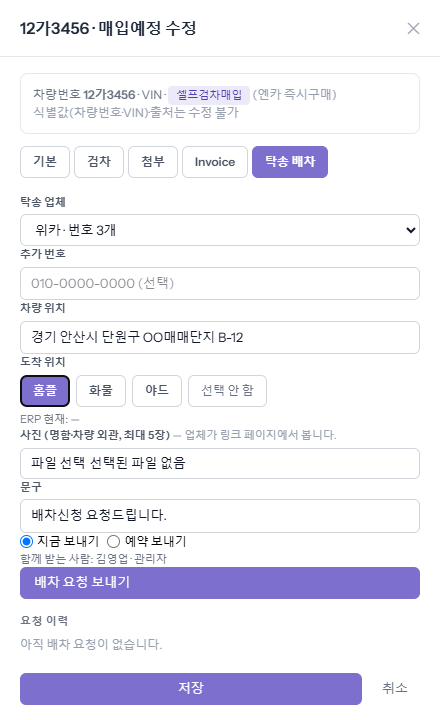
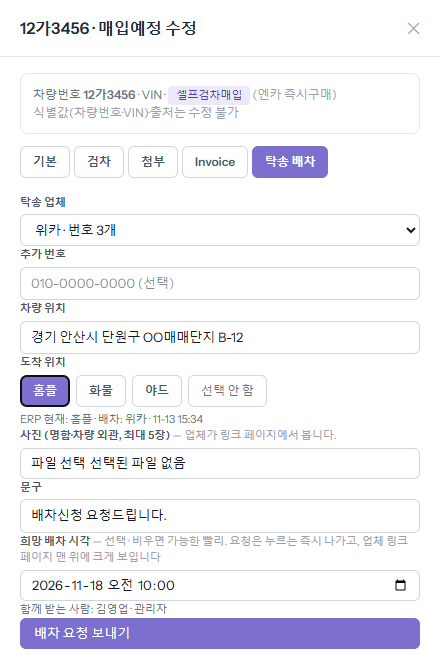
feat(transport): 「예약 보내기」(발송 시각) → 희망 배차 시각 — 업체 링크 페이지 맨 위·이력·종/푸시·매입잔금 메모·감사 행, 알림톡 문구는 그대로(BizM 재승인 없음) + 가이드 그림 3장

diff --git a/resources/guides/transport-dispatch/index.html b/resources/guides/transport-dispatch/index.html
@@ -21,9 +21,10 @@
         <li>「도착 위치」 — 홈플·화물·야드 가운데 차가 갈 곳을 누릅니다.</li>
         <li>「사진」 — 명함이나 차량 외관을 최대 5장까지 붙입니다. 업체가 링크 화면에서 봅니다.</li>
         <li>「문구」 — 그대로 두거나 고쳐 씁니다.</li>
+        <li>「희망 배차 시각」 — 몇 시에 와 달라는지 날짜·시각을 고릅니다(선택, 비우면 가능한 빨리). 업체가 여는 링크 화면 맨 위에 크게 보입니다. 알림톡 글에는 들어가지 않습니다.</li>
     </ul>
-    <p>「함께 받는 사람」에 본인과 담당 관리 이름이 보이는지 확인하고 [배차 요청 보내기]를 누릅니다. 나중에 보내려면 「예약 보내기」를 고르고 「보낼 시각」을 정합니다.</p>
-    <img src="02.png" alt="탁송 배차 탭 — 업체·차량 위치·도착 위치를 적은 모습" width="440">
+    <p>「함께 받는 사람」에 본인과 담당 관리 이름이 보이는지 확인하고 [배차 요청 보내기]를 누릅니다. 요청은 누르는 즉시 나갑니다.</p>
+    <img src="02.png" alt="탁송 배차 탭 — 업체·차량 위치·도착 위치·희망 배차 시각(11-18 10:00)을 적은 모습" width="440">
 </div>
 
 <div class="gd-step">
@@ -31,7 +32,7 @@
     <h3>「요청 이력」에 「배차 요청중」이 생깁니다</h3>
     <p>보내면 위쪽에 「배차 요청을 보냈습니다 (수신 5명).」이 뜨고, 아래 「요청 이력」에 1회차가 「배차 요청중」으로 생깁니다. 누구에게 갔는지도 이름표로 보입니다.</p>
     <p>고른 「도착 위치」는 ERP 의 보관 위치에도 같이 적힙니다. 맨 아래 「ERP 보관 위치 홈플 전송됨」이 그 표시입니다.</p>
-    <img src="03.png" alt="요청 이력 — 1회차 배차 요청중" width="400">
+    <img src="03.png" alt="요청 이력 — 2회차 배차 요청중, 희망 배차 11-18(수) 10:00" width="400">
 </div>
 
 <div class="gd-step">
@@ -53,8 +54,8 @@
 <div class="gd-step">
     <div class="gd-n">4단계 · 탁송 업체가 보는 화면</div>
     <h3>업체가 링크 화면에서 [배차완료] 또는 [배차거절]을 누릅니다</h3>
-    <p>업체 담당자는 로그인 없이 이 화면을 봅니다. 차량 위치·도착지·사진을 확인하고 「처리자 이름」을 적은 뒤 [배차완료]를 누릅니다. 못 가면 「거절 사유」를 적고 [배차거절]을 누릅니다.</p>
-    <img src="04.png" alt="업체가 보는 탁송 배차 요청 화면" width="300">
+    <p>업체 담당자는 로그인 없이 이 화면을 봅니다. 맨 위 파란 상자에 희망 배차 시각이 보입니다(적었을 때만). 차량 위치·도착지·사진을 확인하고 「처리자 이름」을 적은 뒤 [배차완료]를 누릅니다. 못 가면 「거절 사유」를 적고 [배차거절]을 누릅니다.</p>
+    <img src="04.png" alt="업체가 보는 탁송 배차 요청 화면 — 맨 위 희망 배차 시각 11-18(수) 10:00" width="300">
     <p>번호가 여러 개여도 <b>먼저 누른 한 사람</b>의 답으로 정해집니다. 그 뒤에 다른 사람이 열면 「이미 처리된 요청입니다」와 함께 누가 언제 처리했는지만 보입니다.</p>
     <img src="06.png" alt="이미 처리된 요청 화면" width="300">
 </div>
@@ -97,7 +98,7 @@
     <h3>알아 둘 것</h3>
     <ul>
         <li>업체가 거절했거나 답이 없으면 같은 탭에서 다른 업체를 골라 다시 보냅니다. 「요청 이력」에 2회차로 쌓입니다.</li>
-        <li>답을 기다리는 요청이 있는 동안에는 새 요청을 보낼 수 없습니다(「열려 있는 배차 요청이 있습니다」). 결과가 오거나, 예약만 해 둔 요청이면 [취소]한 뒤 다시 보냅니다.</li>
+        <li>답을 기다리는 요청이 있는 동안에는 새 요청을 보낼 수 없습니다(「열려 있는 배차 요청이 있습니다」). 결과가 오거나 링크가 만료(5일)된 뒤 다시 보냅니다.</li>
         <li>업체 링크는 5일 동안만 열립니다. 그 안에 답이 없으면 「응답 없음(만료)」로 바뀝니다.</li>
         <li>ERP 에 이미 다른 보관 위치가 적혀 있으면 「도착 위치」를 누를 때 바꿀지 묻는 창이 뜹니다.</li>
         <li>아직 ERP 로 넘어가지 않은 차는 배차 요청은 되지만 매입잔금 요청은 안 됩니다(「아직 ERP 에 없는 차입니다」). 구매확정 뒤에 누르세요.</li>

diff --git a/resources/views/livewire/transport/tab.blade.php b/resources/views/livewire/transport/tab.blade.php
@@ -34,9 +34,8 @@ new class extends Component
 
     public string $message = TransportRequest::DEFAULT_MESSAGE;
 
-    public string $mode = 'now';   // now | later
-
-    public string $send_at = '';
+    /** 희망 배차 시각(선택, 2026-11-17 Jin) — 「예약 보내기」(발송 시각)를 대신한다. 요청은 누르는 즉시 나간다. 비우면 「가능한 빨리」. */
+    public string $wanted_at = '';
 
     /** @var array<int, \Livewire\Features\SupportFileUploads\TemporaryUploadedFile> */
     public array $photos = [];
@@ -53,7 +52,6 @@ new class extends Component
     public function mount(int $listingId): void
     {
         $this->listingId = $listingId;
-        $this->send_at = now()->addHour()->startOfHour()->format('Y-m-d\TH:i');
         $this->loadErpLocation();
     }
 
@@ -141,21 +139,21 @@ new class extends Component
             'address' => 'nullable|string|max:255',
             'stock_location' => 'nullable|string|max:20',
             'message' => 'required|string|max:255',
-            'mode' => 'in:now,later',
-            'send_at' => 'required_if:mode,later|nullable|date',
+            'wanted_at' => 'nullable|date',
             'photos' => 'array|max:'.TransportRequest::MAX_FILES,
             'photos.*' => 'file|max:20480',
         ]);
-        $sendAt = $this->mode === 'later' ? Carbon::parse($this->send_at, config('app.timezone')) : now();
-        if ($this->mode === 'later' && $sendAt->lte(now())) {
-            $this->addError('send_at', __('transport.errors.send_at_past'));
+        $sendAt = now();
+        $wanted = trim($this->wanted_at) !== '' ? Carbon::parse($this->wanted_at, config('app.timezone')) : null;
+        if ($wanted && $wanted->lt(now()->subMinutes(5))) {
+            $this->addError('wanted_at', __('transport.errors.wanted_past'));
 
             return;
         }
         try {
             $req = $svc->create($this->listing, Auth::user(), [
                 'company_id' => $this->company_id, 'extra_phone' => $this->extra_phone, 'address' => $this->address,
-                'stock_location' => $this->stock_location, 'message' => $this->message, 'send_at' => $sendAt,
+                'stock_location' => $this->stock_location, 'message' => $this->message, 'send_at' => $sendAt, 'wanted_at' => $wanted,
                 'allowed_locations' => $this->locations(),
             ], $this->photos);
         } catch (\DomainException $e) {
@@ -171,9 +169,8 @@ new class extends Component
         $this->notice = $req->isSent()
             ? __('transport.created_now', ['count' => $req->recipients()->count()])
             : __('transport.created_later', ['at' => $sendAt->timezone(config('app.timezone'))->format('m-d H:i')]);
-        $this->reset('company_id', 'extra_phone', 'address', 'photos', 'balanceAmount');
+        $this->reset('company_id', 'extra_phone', 'address', 'photos', 'balanceAmount', 'wanted_at');
         $this->message = TransportRequest::DEFAULT_MESSAGE;
-        $this->mode = 'now';
         unset($this->requests, $this->open);
     }
 
@@ -318,14 +315,11 @@ new class extends Component
                 <label class="label-base">{{ __('transport.form.message') }}</label>
                 <input wire:model="message" class="input-base" maxlength="255">
             </div>
-            <div class="flex flex-wrap items-center gap-2">
-                <label class="flex items-center gap-1 text-[12px]"><input type="radio" wire:model.live="mode" value="now"> {{ __('transport.form.send_now') }}</label>
-                <label class="flex items-center gap-1 text-[12px]"><input type="radio" wire:model.live="mode" value="later"> {{ __('transport.form.send_later') }}</label>
-                @if ($mode === 'later')
-                    <input type="datetime-local" wire:model="send_at" class="input-base w-auto text-xs">
-                @endif
+            <div>
+                <label class="label-base">{{ __('transport.form.wanted') }} <span class="font-normal text-gray-400">— {{ __('transport.form.wanted_hint') }}</span></label>
+                <input type="datetime-local" wire:model="wanted_at" class="input-base w-auto text-xs" step="600">
+                @error('wanted_at')<p class="text-xs text-red-600">{{ $message }}</p>@enderror
             </div>
-            @error('send_at')<p class="text-xs text-red-600">{{ $message }}</p>@enderror
             <p class="text-[11px] text-gray-500">{{ __('transport.form.cc') }}:
                 @forelse ($this->cc as $u)<span class="{{ $u['has_phone'] ? '' : 'line-through text-gray-400' }}" title="{{ $u['has_phone'] ? '' : __('transport.form.cc_none') }}">{{ $u['name'] }}</span>@if (! $loop->last) · @endif@empty —@endforelse
             </p>
@@ -347,6 +341,7 @@ new class extends Component
                 @if ($r->stock_location)<span class="badge bg-teal-100 text-teal-700">{{ $r->stock_location }}</span>@endif
                 <span class="ml-auto text-[11px] text-gray-400">{{ ($r->sent_at ?? $r->send_at)->timezone(config('app.timezone'))->format('m-d H:i') }}</span>
             </div>
+            @if ($r->wantedLabel())<div class="mt-0.5 text-[12px] font-semibold text-gray-700">🕑 {{ __('transport.wanted_short', ['at' => $r->wantedLabel()]) }}</div>@endif
             @if ($r->address)<div class="mt-0.5 text-[12px] text-gray-500">{{ $r->address }}</div>@endif
             @if ($r->files->isNotEmpty())
                 <div class="mt-1 grid grid-cols-5 gap-1">

diff --git a/app/Services/TransportService.php b/app/Services/TransportService.php
@@ -55,7 +55,7 @@ class TransportService
     // ─────────── 생성·예약·취소 ───────────
 
     /**
-     * @param  array{company_id?: ?int, extra_phone?: ?string, address?: ?string, stock_location?: ?string, send_at?: ?Carbon, message?: ?string}  $data
+     * @param  array{company_id?: ?int, extra_phone?: ?string, address?: ?string, stock_location?: ?string, send_at?: ?Carbon, wanted_at?: ?Carbon, message?: ?string}  $data
      * @param  list<UploadedFile>  $files
      *
      * @throws \DomainException open_exists | recipient_required | bad_location | too_many_files | executable_file
@@ -96,6 +96,7 @@ class TransportService
                 'message' => trim((string) ($data['message'] ?? '')) ?: TransportRequest::DEFAULT_MESSAGE,
                 'stock_location' => $loc ?: null,
                 'send_at' => $sendAt,
+                'wanted_at' => $data['wanted_at'] ?? null,
                 'status' => TransportRequest::SCHEDULED,
                 'requested_by_user_id' => $by->id,
             ]);
@@ -107,9 +108,10 @@ class TransportService
                     'mime' => $f->getMimeType(), 'size' => $f->getSize(), 'uploaded_by_user_id' => $by->id,
                 ]);
             }
-            $this->audit($req, $by->id, 'transport_request_create', null, sprintf('%d회차 · %s · 사진 %d · 발송 %s%s',
+            $this->audit($req, $by->id, 'transport_request_create', null, sprintf('%d회차 · %s · 사진 %d · 발송 %s%s%s',
                 $req->revision, $company?->name ?: ('번호 '.TransportCompanyPhone::mask($extra)), count($files),
-                $sendAt->timezone(config('app.timezone'))->format('m-d H:i'), $loc ? ' · 도착 '.$loc : ''));
+                $sendAt->timezone(config('app.timezone'))->format('m-d H:i'), $loc ? ' · 도착 '.$loc : '',
+                $req->wantedLabel() ? ' · 희망 배차 '.$req->wantedLabel() : ''));
 
             return $req;
         });
@@ -277,7 +279,7 @@ class TransportService
         ];
         $payload = [
             'title' => ($accepted ? __('transport.push.title_accepted') : __('transport.push.title_rejected')).' — '.$plate,
-            'body' => $req->dispatchLine().($req->reject_reason ? ' · '.$req->reject_reason : ''),
+            'body' => $req->dispatchLine().($req->wantedLabel() ? ' · '.__('transport.wanted_short', ['at' => $req->wantedLabel()]) : '').($req->reject_reason ? ' · '.$req->reject_reason : ''),
             'url' => route('listings', ['edit' => $req->purchase_listing_id]),
             'tag' => 'transport-'.$req->id,
         ];
@@ -318,7 +320,7 @@ class TransportService
                 return ['ok' => false, 'message' => __('transport.balance.fill_unavailable')];
             }
         }
-        $note = mb_substr(__('transport.balance.note_prefix').$req->dispatchLine(), 0, 200);
+        $note = mb_substr(__('transport.balance.note_prefix').$req->dispatchLine().($req->wantedLabel() ? ' · '.__('transport.wanted_short', ['at' => $req->wantedLabel()]) : ''), 0, 200);
         $res = $this->erp->sendBoardRequest($email, CarErpReadService::REQ_PURCHASE_BALANCE, [(int) $l->car_erp_vehicle_id], null, $note, $amountKrw);
         $ok = (bool) ($res['ok'] ?? false);
         $msg = $ok ? __('transport.balance.sent', ['amount' => number_format($amountKrw)])

diff --git a/tests/Feature/TransportTest.php b/tests/Feature/TransportTest.php
@@ -251,6 +251,46 @@ class TransportTest extends TestCase
         Volt::test('transport.tab', ['listingId' => $l->id]);
     }
 
+    /** 희망 배차 시각(2026-11-17) — 폼 → 즉시 발송 · 업체 페이지 맨 위 · 이력 · 감사 행 · 매입잔금 메모. 알림톡 변수는 그대로(BizM 승인본). 지난 시각은 막는다. */
+    public function test_wanted_dispatch_time_shows_on_page_history_and_balance_note(): void
+    {
+        Carbon::setTestNow('2026-11-17 11:00:00');
+        config(['services.car_erp.base_url' => 'https://erp.test', 'services.car_erp.read_hmac_secret' => 'sek']);
+        $sales = $this->user();
+        $sales->forceFill(['car_erp_salesman_email' => 'erp-sales@t.test'])->save();
+        $c = $this->company(['01099990001' => '김기사']);
+        $l = $this->listing($sales, ['status' => 'synced', 'buyer_verdict' => 'accepted', 'car_erp_vehicle_id' => 77]);
+
+        $this->actingAs($sales);
+        Volt::test('transport.tab', ['listingId' => $l->id])
+            ->assertDontSee('예약 보내기')
+            ->set('company_id', $c->id)->set('wanted_at', '2026-11-17T09:00')->call('submit')->assertHasErrors('wanted_at')
+            ->set('wanted_at', '2026-11-17T12:00')->call('submit')->assertHasNoErrors()
+            ->assertSee(__('transport.status.sent'))->assertSee('희망 배차 11-17(화) 12:00');
+
+        $req = TransportRequest::firstOrFail();
+        $this->assertTrue($req->isSent());   // 발송을 미루지 않는다
+        $this->assertSame('11-17(화) 12:00', $req->wantedLabel());
+        $this->assertStringContainsString('희망 배차 11-17(화) 12:00', BoardAuditLog::where('action', 'transport_request_create')->value('new_value'));
+
+        $company = $req->recipients->firstWhere('kind', TransportRequestRecipient::KIND_COMPANY);
+        $this->get($req->linkFor($company))->assertOk()->assertSeeInOrder([__('transport.page.wanted'), '11-17(화) 12:00', $req->message]);
+
+        $req = $this->svc()->decide($req, $company, 'accept', null, '김기사', null);
+        Http::fake([
+            'erp.test/*/inventory*' => Http::response(['data' => [['vehicle_id' => 77, 'vehicle_number' => $l->vehicle_number, 'purchase_unpaid' => 100]]], 200),
+            'erp.test/*/requests*' => Http::response(['created' => 1], 201),
+        ]);
+        $this->assertTrue($this->svc()->requestBalance($req, $sales, null)['ok']);
+        Http::assertSent(fn ($rq) => str_contains($rq->url(), '/requests') && str_contains(json_decode($rq->body(), true)['note'], '희망 배차 11-17(화) 12:00'));
+
+        // 비우면 줄 자체가 없다
+        $l2 = $this->listing($sales);
+        $r2 = $this->svc()->create($l2, $sales, ['company_id' => $c->id]);
+        $this->assertNull($r2->wantedLabel());
+        $this->get($r2->linkFor($r2->recipients->firstWhere('kind', TransportRequestRecipient::KIND_COMPANY)))->assertOk()->assertDontSee(__('transport.page.wanted'));
+    }
+
     /** 업체 관리 — 관리 role 은 추가·번호 등록 가능, 영업은 403. */
     public function test_companies_page_permissions_and_add(): void
     {

diff --git a/lang/ko/transport.php b/lang/ko/transport.php
@@ -30,8 +30,8 @@ return [
         'photos' => '사진 (명함·차량 외관, 최대 :max장)',
         'photos_hint' => '업체가 링크 페이지에서 봅니다.',
         'message' => '문구',
-        'send_now' => '지금 보내기',
-        'send_later' => '예약 보내기',
+        'wanted' => '희망 배차 시각',
+        'wanted_hint' => '선택 · 비우면 가능한 빨리. 요청은 누르는 즉시 나가고, 업체 링크 페이지 맨 위에 크게 보입니다',
         'send_at' => '보낼 시각',
         'cc' => '함께 받는 사람',
         'cc_none' => '전화번호 없음',
@@ -49,6 +49,8 @@ return [
     'cancel' => '취소',
     'cancel_confirm' => '이 예약 발송을 취소할까요?',
     'reschedule' => '시각 변경',
+    'wanted_short' => '희망 배차 :at',
+    'dow' => [1 => '월', 2 => '화', 3 => '수', 4 => '목', 5 => '금', 6 => '토', 7 => '일'],
     'reschedule_done' => '발송 시각을 바꿨습니다.',
     'cancelled_done' => '취소했습니다.',
     'created_now' => '배차 요청을 보냈습니다 (수신 :count명).',
@@ -65,6 +67,7 @@ return [
         'executable_file' => '실행 파일은 올릴 수 없습니다.',
         'not_scheduled' => '발송 전 요청만 바꿀 수 있습니다.',
         'send_at_past' => '예약 시각은 지금 이후여야 합니다.',
+        'wanted_past' => '희망 배차 시각이 이미 지났습니다 — 지금 이후로 고르거나 비우세요.',
         'forbidden' => '이 매물에 요청할 권한이 없습니다.',
     ],
 
@@ -94,6 +97,7 @@ return [
     // ── 공개 페이지(업체) ──
     'page' => [
         'title' => '탁송 배차 요청',
+        'wanted' => '희망 배차 시각',
         'requested_by' => '요청: :name · :at',
         'address' => '차량 위치',
         'address_none' => '주소 미기재 — 요청자에게 문의',

diff --git a/app/Models/TransportRequest.php b/app/Models/TransportRequest.php
@@ -42,13 +42,13 @@ class TransportRequest extends Model
 
     protected $fillable = [
         'purchase_listing_id', 'revision', 'transport_company_id', 'company_name', 'extra_phone', 'address', 'message',
-        'stock_location', 'send_at', 'status', 'sent_at', 'decided_at', 'decided_recipient_id', 'decided_name', 'reject_reason',
+        'stock_location', 'send_at', 'wanted_at', 'status', 'sent_at', 'decided_at', 'decided_recipient_id', 'decided_name', 'reject_reason',
         'requested_by_user_id', 'cancelled_at', 'balance_requested_at', 'balance_request_error', 'erp_location_synced_at', 'erp_location_error',
     ];
 
     protected $casts = [
         'extra_phone' => 'encrypted',
-        'send_at' => 'datetime', 'sent_at' => 'datetime', 'decided_at' => 'datetime', 'cancelled_at' => 'datetime',
+        'send_at' => 'datetime', 'wanted_at' => 'datetime', 'sent_at' => 'datetime', 'decided_at' => 'datetime', 'cancelled_at' => 'datetime',
         'balance_requested_at' => 'datetime', 'erp_location_synced_at' => 'datetime',
     ];
 
@@ -152,6 +152,17 @@ class TransportRequest extends Model
     }
 
     /** 배차 정보 한 줄 — §11 매입잔금 note·결과 알림톡·종에 같이 쓴다(전화는 가운데 마스킹). */
+    /** 희망 배차 시각 표시 — 「11-17(화) 12:00」. 없으면 null(줄을 안 그린다). */
+    public function wantedLabel(): ?string
+    {
+        if (! $this->wanted_at) {
+            return null;
+        }
+        $w = $this->wanted_at->timezone(config('app.timezone'));
+
+        return $w->format('m-d').'('.__('transport.dow.'.$w->dayOfWeekIso).') '.$w->format('H:i');
+    }
+
     public function dispatchLine(): string
     {
         $who = $this->decidedRecipient;

diff --git a/lang/en/transport.php b/lang/en/transport.php
@@ -29,8 +29,8 @@ return [
         'photos' => 'Photos (business card, exterior — up to :max)',
         'photos_hint' => 'Shown to the company on the link page.',
         'message' => 'Message',
-        'send_now' => 'Send now',
-        'send_later' => 'Schedule',
+        'wanted' => 'Wanted dispatch time',
+        'wanted_hint' => 'optional · empty = as soon as possible. The request goes out immediately; the time is shown at the top of the company link page',
         'send_at' => 'Send at',
         'cc' => 'Also notified',
         'cc_none' => 'no phone',
@@ -48,6 +48,8 @@ return [
     'cancel' => 'Cancel',
     'cancel_confirm' => 'Cancel this scheduled request?',
     'reschedule' => 'Change time',
+    'wanted_short' => 'Wanted :at',
+    'dow' => [1 => 'Mon', 2 => 'Tue', 3 => 'Wed', 4 => 'Thu', 5 => 'Fri', 6 => 'Sat', 7 => 'Sun'],
     'reschedule_done' => 'Send time updated.',
     'cancelled_done' => 'Cancelled.',
     'created_now' => 'Dispatch request sent (:count recipients).',
@@ -64,6 +66,7 @@ return [
         'executable_file' => 'Executable files are not allowed.',
         'not_scheduled' => 'Only requests not yet sent can be changed.',
         'send_at_past' => 'Scheduled time must be in the future.',
+        'wanted_past' => 'The wanted dispatch time has already passed — pick a later time or leave it empty.',
         'forbidden' => 'You cannot request transport for this listing.',
     ],
 
@@ -91,6 +94,7 @@ return [
 
     'page' => [
         'title' => 'Transport dispatch request',
+        'wanted' => 'Wanted dispatch time',
         'requested_by' => 'Requested by :name · :at',
         'address' => 'Vehicle location',
         'address_none' => 'No address — ask the requester',

diff --git a/resources/views/transport/show.blade.php b/resources/views/transport/show.blade.php
@@ -33,6 +33,8 @@
         .banner.ok { background: #dcfce7; color: #166534; }
         .banner.bad { background: #fee2e2; color: #991b1b; }
         .banner.warn { background: #fef3c7; color: #92400e; }
+        .wanted { margin: 14px 14px 0; padding: 12px 16px; border-radius: 12px; background: #eff6ff; border: 2px solid #3b82f6; color: #1e3a8a; font-size: 16px; }
+        .wanted strong { font-size: 20px; font-weight: 800; margin-left: 4px; }
         .media { display: grid; grid-template-columns: 1fr 1fr; gap: 8px; }
         .media a { display: block; }
         .media img { width: 100%; border-radius: 8px; background: #000; display: block; aspect-ratio: 4/3; object-fit: cover; }
@@ -53,6 +55,11 @@
         <div class="veh">{{ $plate }}</div>
         @if ($listing?->vin)<div class="sub">VIN {{ $listing->vin }}</div>@endif
     </header>
+
+    {{-- 희망 배차 시각(2026-11-17 Jin) — 알림톡 문구엔 없다(BizM 승인본 그대로). 이 페이지가 유일한 전달 경로라 맨 위에 크게. --}}
+    @if ($req->wantedLabel())
+        <div class="wanted">{{ __('transport.page.wanted') }} <strong>{{ $req->wantedLabel() }}</strong></div>
+    @endif
 
     @if ($req->isDecided())
         <div class="banner {{ $req->isAccepted() ? 'ok' : 'bad' }}">{{ __('transport.page.already', ['result' => $req->statusLabel(), 'who' => $req->decidedRecipient?->displayName() ?? '—', 'at' => $req->decided_at?->timezone(config('app.timezone'))->format('m-d H:i') ?? '—']) }}</div>

diff --git a/database/migrations/2026_11_17_000001_add_wanted_at_to_transport_requests.php b/database/migrations/2026_11_17_000001_add_wanted_at_to_transport_requests.php
@@ -1,0 +1,26 @@
+<?php
+
+use Illuminate\Database\Migrations\Migration;
+use Illuminate\Database\Schema\Blueprint;
+use Illuminate\Support\Facades\Schema;
+
+/**
+ * 탁송 희망 배차 시각(2026-11-17 Jin — 「예약 보내기」(알림톡 발송 시각) 대신 「몇 시에 와 달라」를 요청 내용에).
+ * 알림톡 문구는 그대로(BizM 재승인 없음) — 업체 링크 페이지·이력·종·푸시·매입잔금 메모에만 보인다.
+ */
+return new class extends Migration
+{
+    public function up(): void
+    {
+        Schema::table('transport_requests', function (Blueprint $t) {
+            $t->timestamp('wanted_at')->nullable()->after('send_at');
+        });
+    }
+
+    public function down(): void
+    {
+        Schema::table('transport_requests', function (Blueprint $t) {
+            $t->dropColumn('wanted_at');
+        });
+    }
+};

diff --git a/resources/views/livewire/notify/bell.blade.php b/resources/views/livewire/notify/bell.blade.php
@@ -259,7 +259,7 @@ new class extends Component
         ])->all();
         $this->transports = $this->transportDecidedQuery()->with(['listing', 'decidedRecipient'])->limit(10)->get()->map(fn ($t) => [
             'id' => $t->id, 'kind' => $t->status, 'plate' => $t->listing?->vehicle_number ?? '—',
-            'text' => trim($t->dispatchLine().($t->reject_reason ? ' · '.$t->reject_reason : '')),
+            'text' => trim($t->dispatchLine().($t->wantedLabel() ? ' · '.__('transport.wanted_short', ['at' => $t->wantedLabel()]) : '').($t->reject_reason ? ' · '.$t->reject_reason : '')),
             'at' => $t->decided_at->timezone(config('app.timezone'))->format('m-d H:i'), 'new' => $t->decided_at->gt($seen),
             'href' => route('listings', ['edit' => $t->purchase_listing_id]),
         ])->all();
